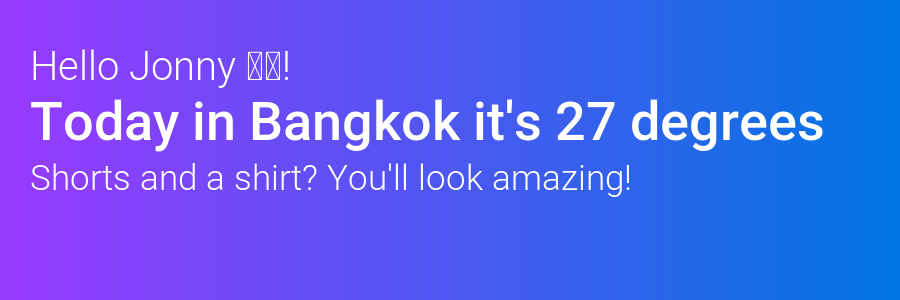
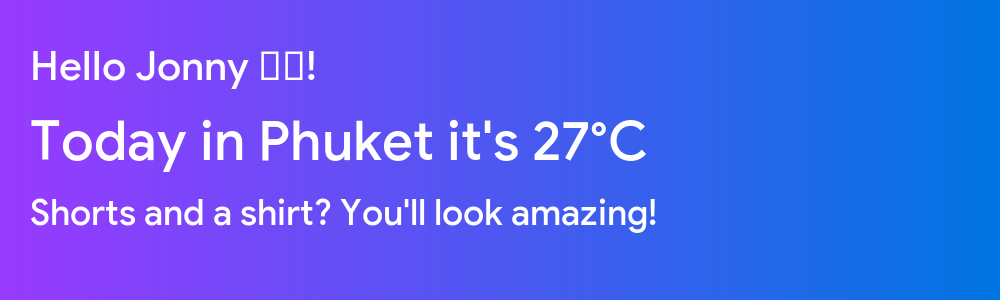
final commit on weatherbot im giving up

Changed region(s): [[0.0311, 0.33, 0.9333, 0.66], [0.0311, 0.66, 0.6533, 0.78], [0.0311, 0.15, 0.3422, 0.3]]

diff --git a/commands/weather.js b/commands/weather.js
@@ -19,6 +19,7 @@ exports.run = (client, message, args) => {
             Api.getWeatherforLocation(result.location, result.preferredUnit).then((resp) => {
               var temperatureRounded = Math.round(parseFloat(resp.main.temp));
               var hi = `Hello ${message.author.username}!`;
+              var unitAppend = 'C';
               var string = `Today in ${resp.name} it's ${temperatureRounded}°${unitAppend}`;
               var string2 = clothing.decideClothing(temperatureRounded, result.preferredUnit);
 
@@ -42,7 +43,6 @@ exports.run = (client, message, args) => {
 
               var buf = canvas.toBuffer();
               fs.writeFileSync(`${message.author.id}.png`, buf);
-
 
               setTimeout(function() {
                 message.channel.send( {

diff --git a/commands/reminders.js b/commands/reminders.js
@@ -1,0 +1,5 @@
+const MongoClient = require('mongodb').MongoClient;
+
+exports.run = (client, message, args) => {
+  
+}
